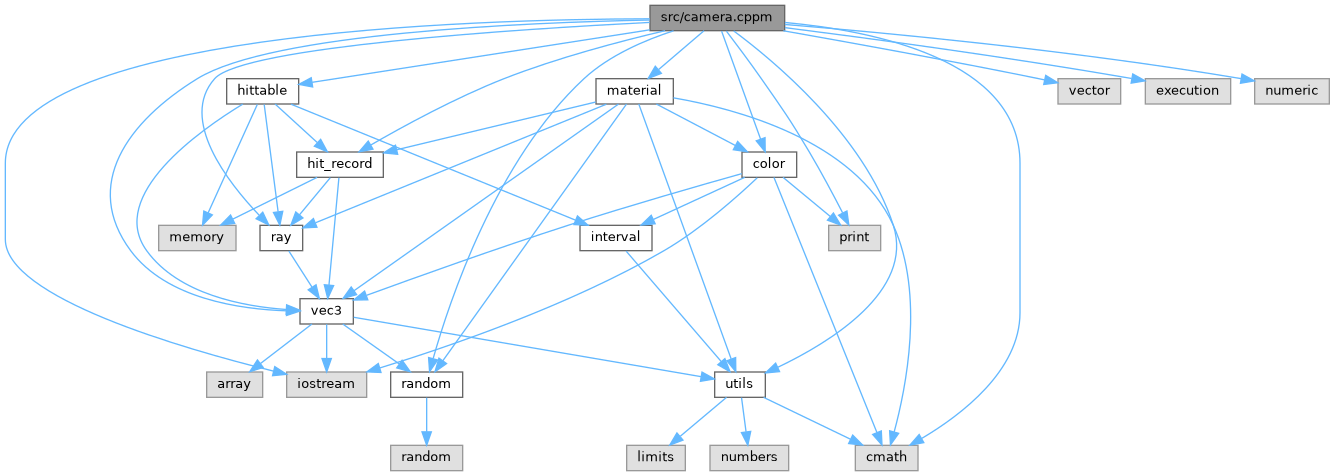
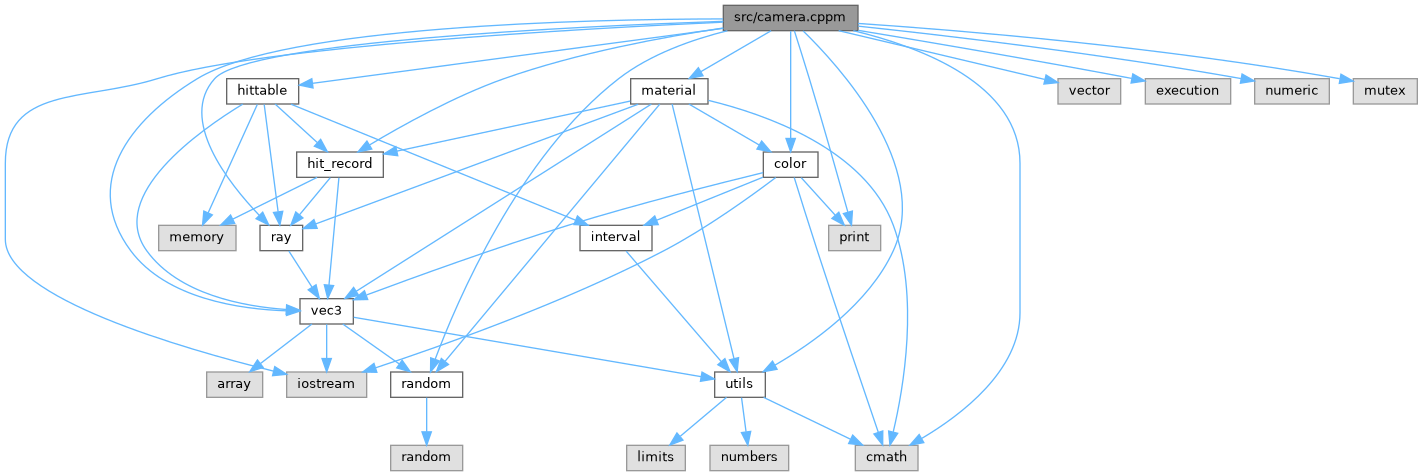
Deploying to gh-pages from @ TomSaw31/RayTracing@6ab624d9662f400bdb96fb83dddd952ca7386b9b 🚀

diff --git a/camera_8cppm.html b/camera_8cppm.html
@@ -87,6 +87,7 @@ $(function() {
 <code>#include &lt;vector&gt;</code><br />
 <code>#include &lt;execution&gt;</code><br />
 <code>#include &lt;numeric&gt;</code><br />
+<code>#include &lt;mutex&gt;</code><br />
 <code>import <a class="el" href="utils_8cppm.html">utils</a>;</code><br />
 <code>import <a class="el" href="random_8cppm.html">random</a>;</code><br />
 <code>import <a class="el" href="material_8cppm.html">material</a>;</code><br />
@@ -100,35 +101,37 @@ Include dependency graph for camera.cppm:</div>
 <div class="dyncontent">
 <div class="center"><img src="camera_8cppm__incl.png" border="0" usemap="#asrc_2camera_8cppm" alt=""/></div>
 <map name="asrc_2camera_8cppm" id="asrc_2camera_8cppm">
-<area shape="rect" title="A 3D camera class for rendering." alt="" coords="650,5,785,31"/>
+<area shape="rect" title="A 3D camera class for rendering." alt="" coords="723,5,858,31"/>
 <area shape="rect" title=" " alt="" coords="287,372,367,397"/>
-<area shape="poly" title=" " alt="" coords="650,21,474,26,368,33,261,45,163,63,82,88,51,104,28,121,13,141,8,164,8,239,15,259,36,279,67,298,106,316,194,347,274,368,273,374,192,352,104,321,65,303,33,283,11,262,3,240,3,163,8,139,24,118,48,99,80,83,162,58,260,40,367,28,474,21,650,16"/>
+<area shape="poly" title=" " alt="" coords="723,25,427,43,270,60,206,70,158,81,103,93,54,103,35,111,21,122,11,139,8,164,8,239,15,259,36,279,67,298,106,316,194,347,274,368,273,374,192,352,104,321,65,303,33,283,11,262,3,240,3,163,6,138,17,119,33,106,53,98,102,88,157,76,205,65,269,54,426,38,723,19"/>
 <area shape="rect" title=" " alt="" coords="855,445,918,471"/>
-<area shape="poly" title=" " alt="" coords="785,20,860,31,899,41,937,55,971,73,998,97,1016,127,1023,163,1023,313,1020,334,1013,355,988,390,956,419,923,441,920,436,952,415,984,387,1008,352,1015,333,1017,313,1017,164,1011,129,994,101,968,78,935,60,898,46,859,36,784,25"/>
+<area shape="poly" title=" " alt="" coords="854,28,909,45,964,71,987,89,1006,110,1018,135,1023,163,1023,313,1020,334,1013,355,988,390,956,419,923,441,920,436,952,415,984,387,1008,352,1015,333,1017,313,1017,164,1013,136,1001,113,983,93,961,76,907,50,853,33"/>
 <area shape="rect" title=" " alt="" coords="829,225,881,251"/>
-<area shape="poly" title=" " alt="" coords="728,29,764,77,812,151,845,212,840,214,807,153,759,80,724,33"/>
+<area shape="poly" title=" " alt="" coords="797,30,812,78,850,211,845,213,807,79,792,31"/>
 <area shape="rect" title=" " alt="" coords="1058,79,1121,104"/>
-<area shape="poly" title=" " alt="" coords="784,28,1039,76,1045,77,1044,83,1038,81,783,33"/>
+<area shape="poly" title=" " alt="" coords="839,28,1045,77,1044,82,838,33"/>
 <area shape="rect" title=" " alt="" coords="1145,79,1231,104"/>
-<area shape="poly" title=" " alt="" coords="785,25,940,46,1132,76,1131,81,939,51,785,30"/>
+<area shape="poly" title=" " alt="" coords="859,28,1132,76,1131,81,858,33"/>
 <area shape="rect" title=" " alt="" coords="1255,79,1329,104"/>
-<area shape="poly" title=" " alt="" coords="785,22,986,41,1112,57,1241,76,1241,81,1111,62,985,46,785,27"/>
+<area shape="poly" title=" " alt="" coords="859,24,1028,44,1241,76,1241,81,1028,49,858,29"/>
+<area shape="rect" title=" " alt="" coords="1353,79,1417,104"/>
+<area shape="poly" title=" " alt="" coords="858,21,1069,39,1203,55,1340,76,1339,81,1202,60,1069,44,858,26"/>
 <area shape="rect" href="utils_8cppm.html" title="Some useful math functions and constants." alt="" coords="715,372,765,397"/>
-<area shape="poly" title=" " alt="" coords="735,29,772,58,819,103,864,159,882,191,896,225,899,249,894,273,882,294,865,314,822,346,779,370,777,365,819,342,861,310,878,291,889,271,894,249,891,226,877,193,859,162,815,107,769,62,732,33"/>
+<area shape="poly" title=" " alt="" coords="805,29,839,66,878,121,893,152,903,185,905,219,896,252,872,289,841,322,807,348,776,367,774,363,804,343,837,318,868,286,891,250,899,218,898,186,888,154,873,123,835,69,801,33"/>
 <area shape="rect" href="random_8cppm.html" title="A module used to create efficient randomness based on the Mersenne Twister algorithm." alt="" coords="391,372,463,397"/>
-<area shape="poly" title=" " alt="" coords="675,33,629,52,606,65,586,81,555,113,528,150,484,229,454,303,436,359,431,358,449,301,479,227,523,147,551,110,582,77,603,60,627,47,673,28"/>
-<area shape="rect" href="material_8cppm.html" title="A material class used for render." alt="" coords="596,79,673,104"/>
-<area shape="poly" title=" " alt="" coords="706,33,660,72,657,67,702,29"/>
-<area shape="rect" href="hit__record_8cppm.html" title="Data structure used to store a hit between a ray and a hittable object." alt="" coords="297,152,383,177"/>
-<area shape="poly" title=" " alt="" coords="666,33,589,53,505,81,433,114,372,147,370,143,430,110,503,76,587,48,664,28"/>
+<area shape="poly" title=" " alt="" coords="728,33,673,51,645,64,620,81,585,113,553,149,500,228,461,303,438,360,433,358,456,301,495,225,549,146,581,109,617,77,643,60,671,46,727,28"/>
+<area shape="rect" href="material_8cppm.html" title="A material class used for render." alt="" coords="631,79,708,104"/>
+<area shape="poly" title=" " alt="" coords="773,33,702,74,699,69,770,28"/>
+<area shape="rect" href="hit__record_8cppm.html" title="Data structure to store a hit between a ray and a hittable object." alt="" coords="297,152,383,177"/>
+<area shape="poly" title=" " alt="" coords="724,31,619,50,561,64,505,81,431,114,371,147,368,143,429,109,503,76,560,59,618,44,723,25"/>
 <area shape="rect" href="ray_8cppm.html" title="A 3D ray vector class." alt="" coords="260,225,303,251"/>
-<area shape="poly" title=" " alt="" coords="650,25,531,32,394,44,277,60,237,70,216,81,207,96,205,113,207,130,214,149,236,184,261,213,257,217,232,187,209,151,202,132,199,112,202,94,213,77,235,65,276,55,394,38,530,27,650,20"/>
+<area shape="poly" title=" " alt="" coords="723,24,588,30,427,41,288,57,241,68,216,81,207,96,204,113,207,130,214,149,236,184,261,214,257,217,232,187,209,151,202,132,199,112,202,94,213,77,239,63,287,52,427,35,587,24,723,19"/>
 <area shape="rect" href="vec3_8cppm.html" title="A 3D vector class for linear algebra operations." alt="" coords="300,299,353,324"/>
-<area shape="poly" title=" " alt="" coords="650,23,537,26,405,36,282,53,234,66,199,81,152,116,135,136,122,157,115,179,113,202,119,225,133,249,148,265,165,278,206,296,248,305,287,308,286,313,247,310,204,301,162,283,144,269,129,252,114,227,108,202,109,178,117,155,131,133,149,112,196,76,232,61,281,48,405,30,537,21,649,17"/>
-<area shape="rect" href="color_8cppm.html" title="Multiple functions for color handling during rendering." alt="" coords="742,152,797,177"/>
-<area shape="poly" title=" " alt="" coords="724,30,763,138,758,140,719,32"/>
+<area shape="poly" title=" " alt="" coords="723,22,596,24,442,32,366,39,297,50,240,64,199,81,152,116,135,136,122,157,114,179,113,202,119,225,133,249,148,265,165,278,206,296,248,305,287,308,286,313,247,310,204,301,162,283,144,269,129,252,114,227,108,202,109,178,117,155,130,133,149,112,196,76,238,58,296,45,366,34,441,26,595,18,723,16"/>
+<area shape="rect" href="color_8cppm.html" title="Multiple functions for color handling during rendering." alt="" coords="763,152,818,177"/>
+<area shape="poly" title=" " alt="" coords="793,31,793,138,788,138,788,31"/>
 <area shape="rect" href="hittable_8cppm.html" title="Interface to represent an object that can be hit by a ray." alt="" coords="227,79,299,104"/>
-<area shape="poly" title=" " alt="" coords="650,32,313,85,312,80,649,27"/>
+<area shape="poly" title=" " alt="" coords="724,31,313,86,313,81,723,26"/>
 <area shape="poly" title=" " alt="" coords="765,395,852,437,849,442,762,400"/>
 <area shape="rect" title=" " alt="" coords="627,445,685,471"/>
 <area shape="poly" title=" " alt="" coords="728,399,682,438,679,434,725,395"/>
@@ -136,13 +139,13 @@ Include dependency graph for camera.cppm:</div>
 <area shape="poly" title=" " alt="" coords="744,397,749,431,743,432,739,398"/>
 <area shape="rect" title=" " alt="" coords="391,445,463,471"/>
 <area shape="poly" title=" " alt="" coords="429,398,429,432,424,432,424,398"/>
-<area shape="poly" title=" " alt="" coords="674,95,729,108,793,131,824,148,853,169,877,194,896,224,905,252,911,280,913,338,906,391,897,433,892,431,901,391,907,338,906,281,900,253,891,226,873,197,850,173,822,153,791,136,728,113,673,100"/>
-<area shape="poly" title=" " alt="" coords="641,103,734,358,729,360,636,105"/>
-<area shape="poly" title=" " alt="" coords="629,106,445,362,441,359,624,103"/>
-<area shape="poly" title=" " alt="" coords="596,105,397,152,396,147,595,99"/>
-<area shape="poly" title=" " alt="" coords="607,107,317,225,315,220,605,102"/>
-<area shape="poly" title=" " alt="" coords="620,106,355,293,352,289,617,102"/>
-<area shape="poly" title=" " alt="" coords="658,102,736,143,734,148,655,106"/>
+<area shape="poly" title=" " alt="" coords="709,98,758,112,813,137,839,154,862,173,882,197,896,224,908,281,910,339,904,392,896,432,891,431,899,391,904,339,903,282,891,226,877,200,859,177,836,158,810,142,756,117,708,103"/>
+<area shape="poly" title=" " alt="" coords="675,103,737,358,731,359,670,105"/>
+<area shape="poly" title=" " alt="" coords="662,106,447,363,443,359,658,102"/>
+<area shape="poly" title=" " alt="" coords="631,104,397,154,396,149,630,98"/>
+<area shape="poly" title=" " alt="" coords="639,107,317,226,315,221,637,102"/>
+<area shape="poly" title=" " alt="" coords="653,106,358,294,355,289,650,102"/>
+<area shape="poly" title=" " alt="" coords="690,102,761,143,758,147,687,106"/>
 <area shape="rect" title=" " alt="" coords="159,225,236,251"/>
 <area shape="poly" title=" " alt="" coords="318,180,234,221,232,217,316,175"/>
 <area shape="poly" title=" " alt="" coords="332,179,301,217,297,213,328,176"/>
@@ -153,12 +156,12 @@ Include dependency graph for camera.cppm:</div>
 <area shape="poly" title=" " alt="" coords="344,322,401,362,398,366,341,326"/>
 <area shape="rect" title=" " alt="" coords="207,372,263,397"/>
 <area shape="poly" title=" " alt="" coords="314,326,262,366,259,361,310,322"/>
-<area shape="poly" title=" " alt="" coords="759,180,719,215,665,253,591,292,513,324,381,370,379,365,511,319,588,287,663,248,716,211,756,176"/>
-<area shape="poly" title=" " alt="" coords="776,176,879,432,874,434,771,178"/>
-<area shape="poly" title=" " alt="" coords="785,175,832,214,829,219,781,179"/>
-<area shape="poly" title=" " alt="" coords="743,176,569,228,368,298,366,293,567,223,741,171"/>
+<area shape="poly" title=" " alt="" coords="777,180,729,214,665,253,588,290,509,323,377,370,375,365,507,318,586,285,663,248,726,210,774,175"/>
+<area shape="poly" title=" " alt="" coords="797,177,820,250,881,431,876,433,815,251,792,178"/>
+<area shape="poly" title=" " alt="" coords="803,176,837,213,833,217,799,179"/>
+<area shape="poly" title=" " alt="" coords="764,175,569,228,368,297,366,292,567,223,762,170"/>
 <area shape="rect" href="interval_8cppm.html" title="A class for math related interval operations." alt="" coords="580,225,652,251"/>
-<area shape="poly" title=" " alt="" coords="746,180,654,222,652,217,744,175"/>
+<area shape="poly" title=" " alt="" coords="764,180,658,223,656,218,762,175"/>
 <area shape="poly" title=" " alt="" coords="628,249,723,360,719,363,624,253"/>
 <area shape="poly" title=" " alt="" coords="277,102,319,141,315,144,273,106"/>
 <area shape="poly" title=" " alt="" coords="260,106,211,214,206,212,255,103"/>

diff --git a/files.html b/files.html
@@ -77,7 +77,7 @@ $(function() {
 <tr id="row_0_" class="even"><td class="entry"><span style="width:0px;display:inline-block;">&#160;</span><span id="arr_0_" class="arrow" onclick="toggleFolder('0_')">&#9660;</span><span id="img_0_" class="iconfopen" onclick="toggleFolder('0_')">&#160;</span><a class="el" href="dir_68267d1309a1af8e8297ef4c3efbcdba.html" target="_self">src</a></td><td class="desc"></td></tr>
 <tr id="row_0_0_" class="odd"><td class="entry"><span style="width:32px;display:inline-block;">&#160;</span><span class="icondoc"></span><a class="el" href="camera_8cppm.html" target="_self">camera.cppm</a></td><td class="desc">A 3D camera class for rendering </td></tr>
 <tr id="row_0_1_" class="even"><td class="entry"><span style="width:32px;display:inline-block;">&#160;</span><span class="icondoc"></span><a class="el" href="color_8cppm.html" target="_self">color.cppm</a></td><td class="desc">Multiple functions for color handling during rendering </td></tr>
-<tr id="row_0_2_" class="odd"><td class="entry"><span style="width:32px;display:inline-block;">&#160;</span><span class="icondoc"></span><a class="el" href="hit__record_8cppm.html" target="_self">hit_record.cppm</a></td><td class="desc">Data structure used to store a hit between a ray and a hittable object </td></tr>
+<tr id="row_0_2_" class="odd"><td class="entry"><span style="width:32px;display:inline-block;">&#160;</span><span class="icondoc"></span><a class="el" href="hit__record_8cppm.html" target="_self">hit_record.cppm</a></td><td class="desc">Data structure to store a hit between a ray and a hittable object </td></tr>
 <tr id="row_0_3_" class="even"><td class="entry"><span style="width:32px;display:inline-block;">&#160;</span><span class="icondoc"></span><a class="el" href="hittable_8cppm.html" target="_self">hittable.cppm</a></td><td class="desc">Interface to represent an object that can be hit by a ray </td></tr>
 <tr id="row_0_4_" class="odd"><td class="entry"><span style="width:32px;display:inline-block;">&#160;</span><span class="icondoc"></span><a class="el" href="hittable__list_8cppm.html" target="_self">hittable_list.cppm</a></td><td class="desc">A container class used to stores hittable objects </td></tr>
 <tr id="row_0_5_" class="even"><td class="entry"><span style="width:32px;display:inline-block;">&#160;</span><span class="icondoc"></span><a class="el" href="interval_8cppm.html" target="_self">interval.cppm</a></td><td class="desc">A class for math related interval operations </td></tr>

diff --git a/hit__record_8cppm.html b/hit__record_8cppm.html
@@ -79,7 +79,7 @@ $(function() {
 </div><!--header-->
 <div class="contents">
 
-<p>Data structure used to store a hit between a ray and a hittable object.  
+<p>Data structure to store a hit between a ray and a hittable object.  
 <a href="#details">More...</a></p>
 <div class="textblock"><code>#include &lt;memory&gt;</code><br />
 <code>import <a class="el" href="ray_8cppm.html">ray</a>;</code><br />
@@ -89,7 +89,7 @@ Include dependency graph for hit_record.cppm:</div>
 <div class="dyncontent">
 <div class="center"><img src="hit__record_8cppm__incl.png" border="0" usemap="#asrc_2hit__record_8cppm" alt=""/></div>
 <map name="asrc_2hit__record_8cppm" id="asrc_2hit__record_8cppm">
-<area shape="rect" title="Data structure used to store a hit between a ray and a hittable object." alt="" coords="71,5,222,31"/>
+<area shape="rect" title="Data structure to store a hit between a ray and a hittable object." alt="" coords="71,5,222,31"/>
 <area shape="rect" title=" " alt="" coords="24,79,101,104"/>
 <area shape="poly" title=" " alt="" coords="135,33,89,72,85,67,131,29"/>
 <area shape="rect" href="ray_8cppm.html" title="A 3D ray vector class." alt="" coords="125,79,168,104"/>
@@ -123,7 +123,7 @@ Classes</h2></td></tr>
 <tr class="separator:"><td class="memSeparator" colspan="2">&#160;</td></tr>
 </table>
 <a name="details" id="details"></a><h2 class="groupheader">Detailed Description</h2>
-<div class="textblock"><p>Data structure used to store a hit between a ray and a hittable object. </p>
+<div class="textblock"><p>Data structure to store a hit between a ray and a hittable object. </p>
 </div></div><!-- contents -->
 <!-- start footer part -->
 <hr class="footer"/><address class="footer"><small>

diff --git a/dir_68267d1309a1af8e8297ef4c3efbcdba.html b/dir_68267d1309a1af8e8297ef4c3efbcdba.html
@@ -86,7 +86,7 @@ Files</h2></td></tr>
 <tr class="memdesc:color_8cppm"><td class="mdescLeft">&#160;</td><td class="mdescRight">Multiple functions for color handling during rendering. <br /></td></tr>
 <tr class="separator:"><td class="memSeparator" colspan="2">&#160;</td></tr>
 <tr class="memitem:"><td class="memItemLeft" align="right" valign="top"><span class="icondoc"></span>&#160;</td><td class="memItemRight" valign="bottom"><a class="el" href="hit__record_8cppm.html">hit_record.cppm</a></td></tr>
-<tr class="memdesc:hit__record_8cppm"><td class="mdescLeft">&#160;</td><td class="mdescRight">Data structure used to store a hit between a ray and a hittable object. <br /></td></tr>
+<tr class="memdesc:hit__record_8cppm"><td class="mdescLeft">&#160;</td><td class="mdescRight">Data structure to store a hit between a ray and a hittable object. <br /></td></tr>
 <tr class="separator:"><td class="memSeparator" colspan="2">&#160;</td></tr>
 <tr class="memitem:"><td class="memItemLeft" align="right" valign="top"><span class="icondoc"></span>&#160;</td><td class="memItemRight" valign="bottom"><a class="el" href="hittable_8cppm.html">hittable.cppm</a></td></tr>
 <tr class="memdesc:hittable_8cppm"><td class="mdescLeft">&#160;</td><td class="mdescRight">Interface to represent an object that can be hit by a ray. <br /></td></tr>

diff --git a/sphere_8cppm.html b/sphere_8cppm.html
@@ -111,7 +111,7 @@ Include dependency graph for sphere.cppm:</div>
 <area shape="poly" title=" " alt="" coords="292,103,306,168,319,209,337,249,358,282,382,312,428,361,424,364,378,316,353,285,332,252,314,211,301,169,287,105"/>
 <area shape="rect" href="random_8cppm.html" title="A module used to create efficient randomness based on the Mersenne Twister algorithm." alt="" coords="144,372,216,397"/>
 <area shape="poly" title=" " alt="" coords="251,107,209,123,162,149,118,183,100,203,85,226,79,245,80,264,86,283,96,301,124,335,154,362,151,366,120,339,91,304,81,285,74,265,74,245,80,224,95,200,114,179,159,144,207,119,249,102"/>
-<area shape="rect" href="hit__record_8cppm.html" title="Data structure used to store a hit between a ray and a hittable object." alt="" coords="427,152,514,177"/>
+<area shape="rect" href="hit__record_8cppm.html" title="Data structure to store a hit between a ray and a hittable object." alt="" coords="427,152,514,177"/>
 <area shape="poly" title=" " alt="" coords="318,102,429,144,427,149,316,107"/>
 <area shape="rect" href="ray_8cppm.html" title="A 3D ray vector class." alt="" coords="347,225,389,251"/>
 <area shape="poly" title=" " alt="" coords="297,103,357,212,353,215,292,106"/>

diff --git a/material_8cppm.html b/material_8cppm.html
@@ -100,7 +100,7 @@ Include dependency graph for material.cppm:</div>
 <area shape="poly" title=" " alt="" coords="205,30,220,78,248,193,268,284,263,285,243,194,215,79,200,32"/>
 <area shape="rect" href="random_8cppm.html" title="A module used to create efficient randomness based on the Mersenne Twister algorithm." alt="" coords="5,299,77,324"/>
 <area shape="poly" title=" " alt="" coords="129,31,82,48,61,62,43,80,30,105,21,131,18,160,17,188,24,242,35,285,30,286,19,243,12,189,12,159,16,130,25,103,39,77,57,58,79,44,128,26"/>
-<area shape="rect" href="hit__record_8cppm.html" title="Data structure used to store a hit between a ray and a hittable object." alt="" coords="73,79,159,104"/>
+<area shape="rect" href="hit__record_8cppm.html" title="Data structure to store a hit between a ray and a hittable object." alt="" coords="73,79,159,104"/>
 <area shape="poly" title=" " alt="" coords="187,33,142,72,138,67,184,29"/>
 <area shape="rect" href="ray_8cppm.html" title="A 3D ray vector class." alt="" coords="177,152,220,177"/>
 <area shape="poly" title=" " alt="" coords="201,31,201,138,196,138,196,31"/>

diff --git a/hittable__list_8cppm.html b/hittable__list_8cppm.html
@@ -111,7 +111,7 @@ Include dependency graph for hittable_list.cppm:</div>
 <area shape="poly" title=" " alt="" coords="203,395,255,435,252,439,199,399"/>
 <area shape="poly" title=" " alt="" coords="315,94,345,100,380,111,413,127,443,150,460,180,467,211,462,213,455,182,439,154,411,131,378,116,344,105,314,99"/>
 <area shape="poly" title=" " alt="" coords="264,106,208,146,205,142,261,102"/>
-<area shape="rect" href="hit__record_8cppm.html" title="Data structure used to store a hit between a ray and a hittable object." alt="" coords="341,152,428,177"/>
+<area shape="rect" href="hit__record_8cppm.html" title="Data structure to store a hit between a ray and a hittable object." alt="" coords="341,152,428,177"/>
 <area shape="poly" title=" " alt="" coords="297,102,357,142,354,147,294,106"/>
 <area shape="rect" href="ray_8cppm.html" title="A 3D ray vector class." alt="" coords="297,225,339,251"/>
 <area shape="poly" title=" " alt="" coords="284,104,314,211,309,213,279,105"/>

diff --git a/hittable_8cppm.html b/hittable_8cppm.html
@@ -94,7 +94,7 @@ Include dependency graph for hittable.cppm:</div>
 <area shape="rect" title="Interface to represent an object that can be hit by a ray." alt="" coords="154,5,289,31"/>
 <area shape="rect" title=" " alt="" coords="23,152,100,177"/>
 <area shape="poly" title=" " alt="" coords="168,33,124,51,104,64,86,80,71,108,65,138,60,137,66,107,82,77,100,60,122,46,166,28"/>
-<area shape="rect" href="hit__record_8cppm.html" title="Data structure used to store a hit between a ray and a hittable object." alt="" coords="97,79,183,104"/>
+<area shape="rect" href="hit__record_8cppm.html" title="Data structure to store a hit between a ray and a hittable object." alt="" coords="97,79,183,104"/>
 <area shape="poly" title=" " alt="" coords="210,33,165,72,162,68,207,29"/>
 <area shape="rect" href="ray_8cppm.html" title="A 3D ray vector class." alt="" coords="189,152,232,177"/>
 <area shape="poly" title=" " alt="" coords="223,31,215,138,210,138,218,31"/>

diff --git a/module_hit__record.html b/module_hit__record.html
@@ -86,7 +86,7 @@ Classes</h2></td></tr>
 <tr class="heading"><td colspan="2"><h2 class="groupheader"><a id="files" name="files"></a>
 Files</h2></td></tr>
 <tr class="memitem:hit__record_8cppm" id="r_hit__record_8cppm"><td class="memItemLeft" align="right" valign="top">file &#160;</td><td class="memItemRight" valign="bottom">src/<a class="el" href="hit__record_8cppm.html">hit_record.cppm</a></td></tr>
-<tr class="memdesc:hit__record_8cppm"><td class="mdescLeft">&#160;</td><td class="mdescRight">Data structure used to store a hit between a ray and a hittable object. <br /></td></tr>
+<tr class="memdesc:hit__record_8cppm"><td class="mdescLeft">&#160;</td><td class="mdescRight">Data structure to store a hit between a ray and a hittable object. <br /></td></tr>
 <tr class="separator:"><td class="memSeparator" colspan="2">&#160;</td></tr>
 </table>
 </div><!-- contents -->
